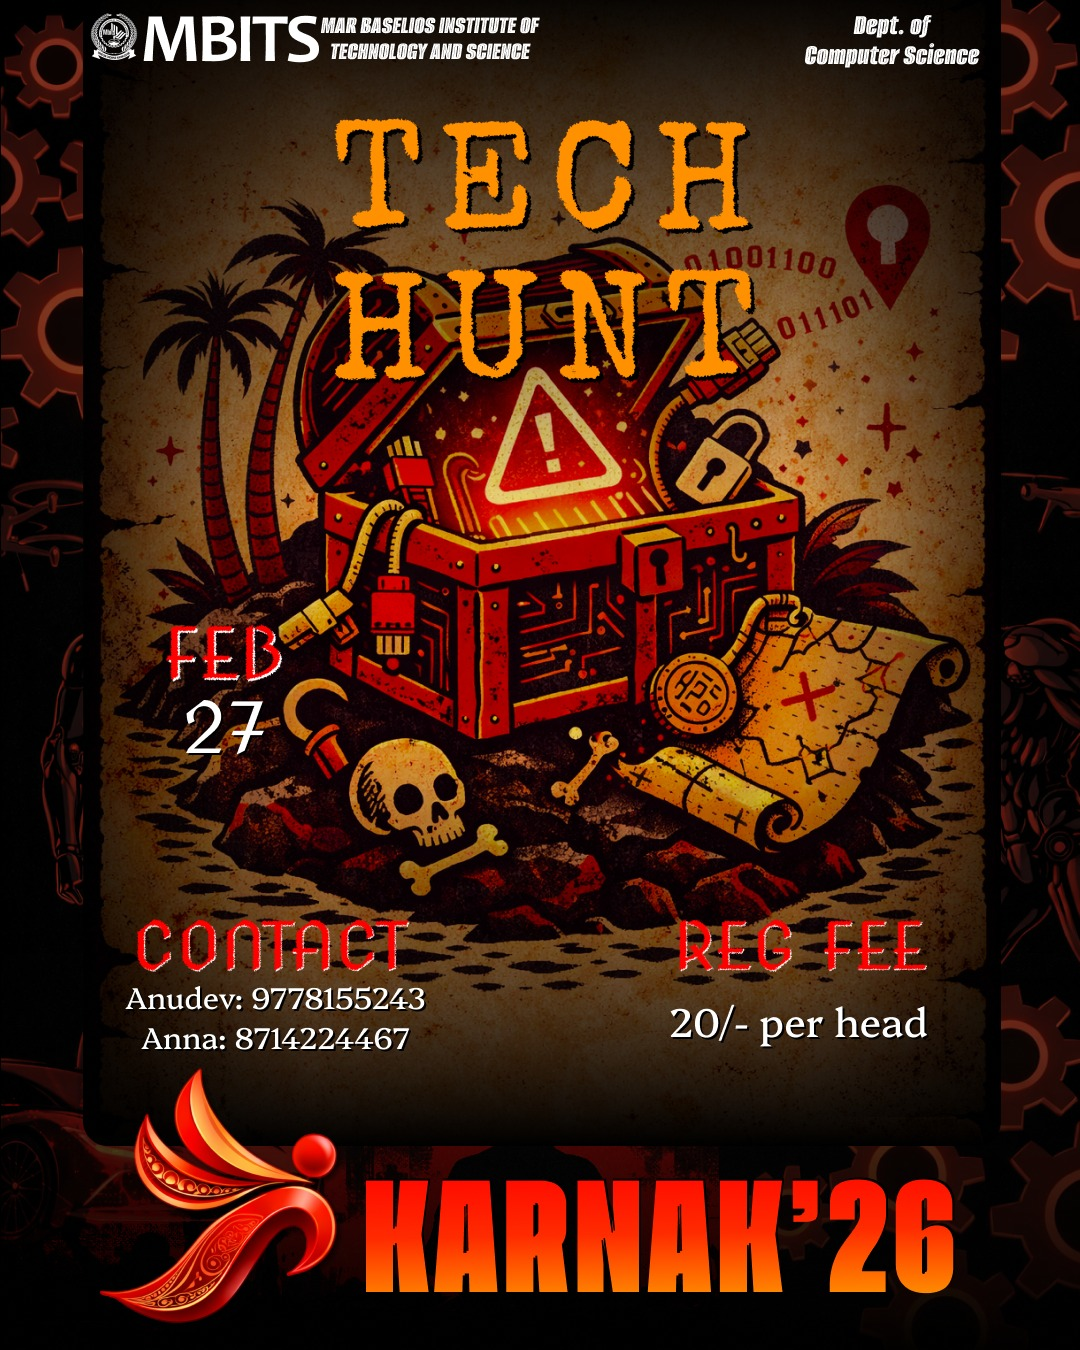
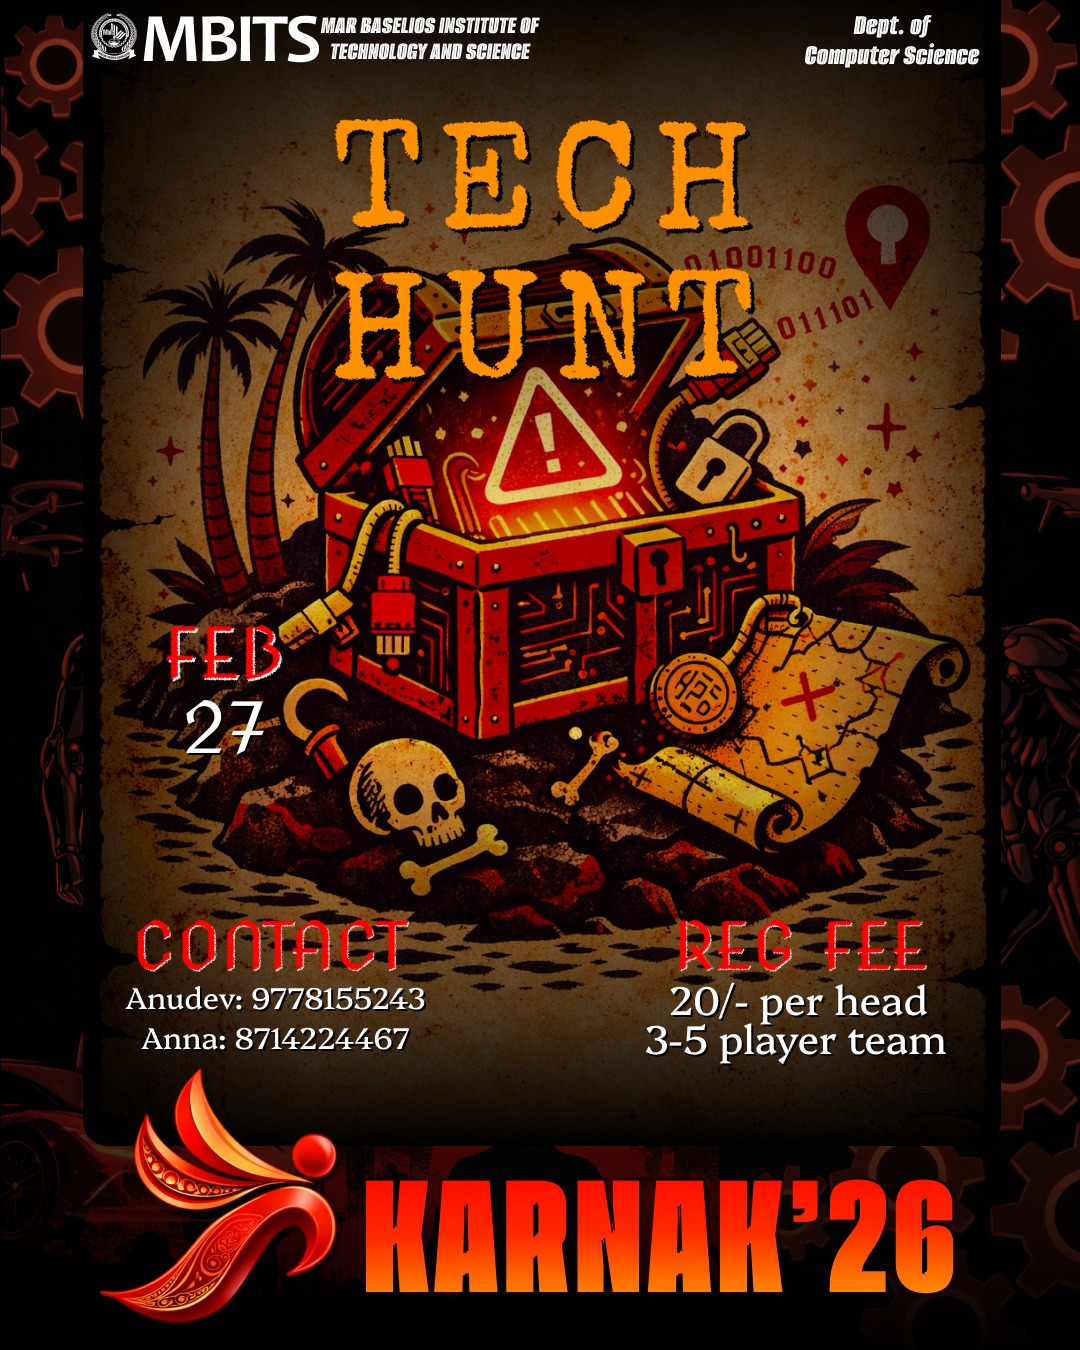
comp update

Changed region(s): [[0.6111, 0.7156, 0.8861, 0.8089]]

diff --git a/src/app/pages/DepartmentEventsPage.tsx b/src/app/pages/DepartmentEventsPage.tsx
@@ -182,11 +182,11 @@ const departmentEvents: Record<string, any> = {
       {
         id: 11,
         name: 'Tech Hunt',
-        description: 'Step into a treasure hunt like no other, where logic replaces luck and clues are hidden in code. The Tech Hunt challenges participants to think, decode, and solve their way through a series of mysteries. Only sharp minds, quick reasoning, and technical intuition will lead you to the final prize. Get ready to explore, analyze, and conquer the hunt.',
+        description: 'Step into a campus wide tech scavenger hunt like no other, where logic replaces luck and clues are hidden in code. The Tech Hunt challenges participants to think, decode, and solve their way through a series of mysteries. Only sharp minds, quick reasoning, and technical intuition will lead you to the final prize. Get ready to explore, analyze, and conquer.\n\nRules & Regulations\n1. The treasure hunt must be completed within the allotted time.\n2. All team members must stay together throughout the event.\n3. Certain tasks may require full team participation.\n4. At Each Location Teams must find the next clue card and must keep them until the end.\n5. Clues must be followed in order; skipping locations is not allowed.\n6. Teams cannot ask volunteers or coordinators for hints.\n7. The number of participants allowed for each team is 3-5.\n8. Fragments & Progress: \nEach team must collect all 5 clue card to proceed to the final round.\n9. Final Round & Winner Selection:\n If more than one team reaches and completes the final round: a tie breaker task will be given.\n10. Device Policy:\n Mobile phones, smart watches, and all smart devices are strictly prohibited during the hunt.\n11. Any team found using them will be disqualified.',
         date: 'February 27, 2026',
         time: 'Afternoon',
         prizepool: 'NA',
-        fee: '₹20',
+        fee: '₹20 per person',
         venue: 'Computer Lab 7',
         image: '/depfolds/comps/techhunt.jpeg',
         registrationUrl: 'https://t4.ftcdn.net/jpg/17/77/94/27/360_F_1777942761_UTY0WxIs5of7FgsgrkLmzqFdCapwHHgN.jpg',
@@ -261,7 +261,7 @@ const departmentEvents: Record<string, any> = {
         time: 'FULL DAY',
         fee: 'FREE',
         venue: 'CSE Block Corridors',
-        image: '/depfolds/comps/ipl.jpeg',
+        image: '/depfolds/comps/funfinity.jpeg',
         registrationUrl: 'https://t4.ftcdn.net/jpg/17/77/94/27/360_F_1777942761_UTY0WxIs5of7FgsgrkLmzqFdCapwHHgN.jpg',
         contact: [{ name: 'Vismaya', phone: '9544251901' }, { name: 'Vinayathri', phone: '9778140400' }]
       ,
@@ -269,13 +269,13 @@ const departmentEvents: Record<string, any> = {
       },
       {
         id: 17,
-        name: 'Funfinity (Mini Games)',
+        name: 'Mechamorphosis (E-Waste Sculpture)',
         description: 'Mechamorphosis is a sustainable art installation that transforms electronic waste into a life-size robotic sculpture. It reimagines discarded technology as creative expression, promoting responsible recycling and sustainability.\nSymbolizing technological rebirth, it stands as a mechanical guardian, highlighting innovation, environmental awareness, and the power of reuse in the digital age',
         date: 'February 27-28, 2026',
         time: 'FULL DAY',
         fee: 'FREE',
         venue: 'Open Area CSE Block',
-        image: '/depfolds/comps/ipl.jpeg',
+        image: '/depfolds/comps/ewaste.jpeg',
         registrationUrl: 'https://t4.ftcdn.net/jpg/17/77/94/27/360_F_1777942761_UTY0WxIs5of7FgsgrkLmzqFdCapwHHgN.jpg',
         contact: [{ name: 'Manna', phone: ' 8089581794' }]
       ,
